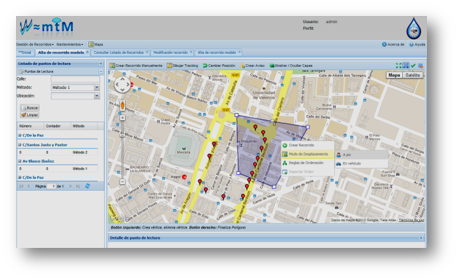
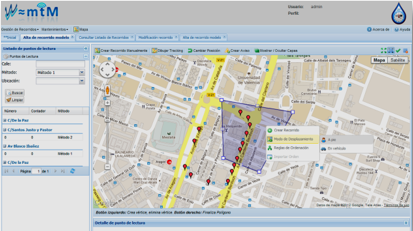
fixing image size

diff --git a/src/app/tab-panel/tab-panel.component.css b/src/app/tab-panel/tab-panel.component.css
@@ -157,8 +157,8 @@ li {
 }
 
 .img{
-  height: 80%;
-  width: 100%;
+  height: 95%;
+  width: 135%;
 }
 
 /*---------------------- ---------------------- Responsive UI -------------------------------------------- */
